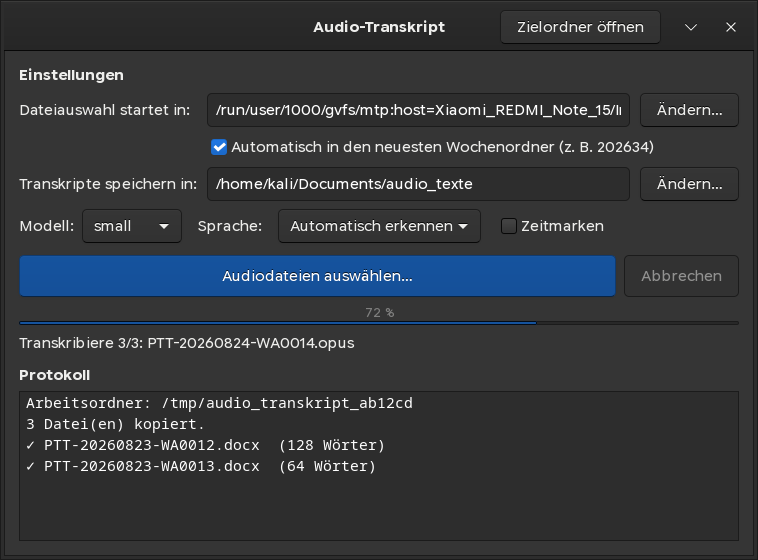
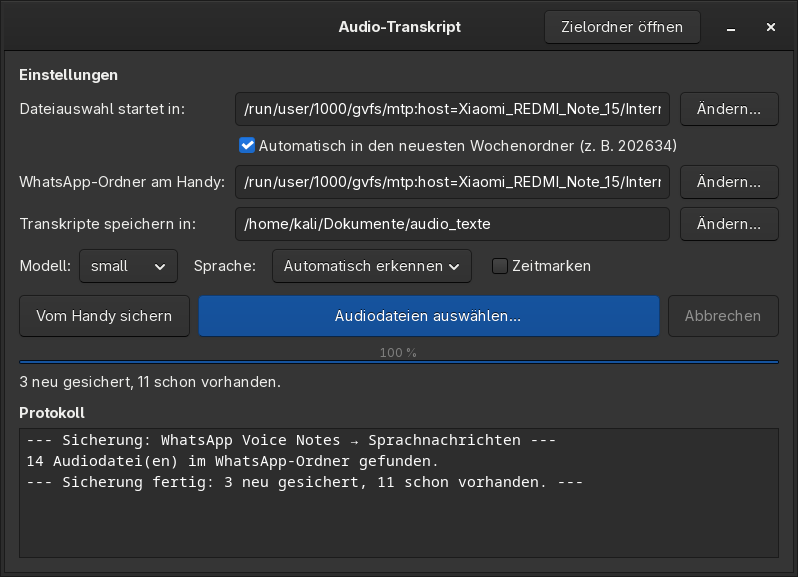
Knopf 'Vom Handy sichern': WhatsApp-Ordner in den Startordner kopieren
Neues Feld 'WhatsApp-Ordner am Handy' (dauerhaft gespeichert) und ein Knopf,
der alle Audiodateien daraus samt Wochenordnern flach in den Startordner
kopiert - bisher Handarbeit, damit WhatsApp sie nicht nach einer Woche löscht.

Bereits vorhandene Dateien werden übersprungen, unvollständig angekommene
erkannt und erneut geholt. Der Lauf zeigt Fortschritt und ist abbrechbar.
Quell- und Zielordner dürfen nicht ineinander liegen.

diff --git a/audio_transkript/gui.py b/audio_transkript/gui.py
@@ -11,7 +11,7 @@ from gi.repository import Gdk, Gio, GLib, Gtk  # noqa: E402
 
 from . import config  # noqa: E402
 from .audio import AUDIO_EXTENSIONS  # noqa: E402
-from .job import JobError, run_job, sweep_stale_workdirs  # noqa: E402
+from .job import JobError, run_copy_job, run_job, sweep_stale_workdirs  # noqa: E402
 from .transcriber import Transcriber  # noqa: E402
 
 APP_ID = "org.audiotranskript.AudioTranskript"
@@ -115,12 +115,17 @@ class Window(Gtk.ApplicationWindow):
         self.auto_newest.connect("toggled", self.on_auto_newest_toggled)
         grid.attach(self.auto_newest, 1, 1, 2, 1)
         self.settings_widgets.append(self.auto_newest)
+        self.whatsapp_entry = self._path_row(
+            grid, 2, "WhatsApp-Ordner am Handy:", self.cfg["whatsapp_dir"],
+            self.on_choose_whatsapp_dir,
+        )
+        self.whatsapp_entry.set_placeholder_text("noch nicht eingestellt")
         self.output_entry = self._path_row(
-            grid, 2, "Transkripte speichern in:", self.cfg["output_dir"], self.on_choose_output_dir
+            grid, 3, "Transkripte speichern in:", self.cfg["output_dir"], self.on_choose_output_dir
         )
 
         options = Gtk.Box(orientation=Gtk.Orientation.HORIZONTAL, spacing=8)
-        grid.attach(options, 0, 3, 3, 1)
+        grid.attach(options, 0, 4, 3, 1)
         options.pack_start(self._label("Modell:"), False, False, 0)
         self.model_box = Gtk.ComboBoxText()
         for name in config.MODELS:
@@ -149,6 +154,15 @@ class Window(Gtk.ApplicationWindow):
         box = Gtk.Box(orientation=Gtk.Orientation.VERTICAL, spacing=8)
         row = Gtk.Box(orientation=Gtk.Orientation.HORIZONTAL, spacing=8)
         box.pack_start(row, False, False, 0)
+
+        self.copy_button = Gtk.Button(label="Vom Handy sichern")
+        self.copy_button.set_size_request(-1, 42)
+        self.copy_button.set_tooltip_text(
+            "Kopiert alle Sprachnachrichten aus dem WhatsApp-Ordner des Handys in den "
+            "oben eingestellten Startordner.\nBereits vorhandene Dateien werden übersprungen."
+        )
+        self.copy_button.connect("clicked", self.on_copy_clicked)
+        row.pack_start(self.copy_button, False, False, 0)
 
         self.select_button = Gtk.Button(label="Audiodateien auswählen…")
         self.select_button.get_style_context().add_class("suggested-action")
@@ -188,6 +202,7 @@ class Window(Gtk.ApplicationWindow):
         codes = [code for code, _label in config.LANGUAGES]
         self.cfg = {
             "start_dir": self.start_entry.get_text(),
+            "whatsapp_dir": self.whatsapp_entry.get_text(),
             "output_dir": self.output_entry.get_text(),
             "model": config.MODELS[self.model_box.get_active()],
             "language": codes[self.language_box.get_active()],
@@ -233,6 +248,9 @@ class Window(Gtk.ApplicationWindow):
     def on_choose_start_dir(self, _button) -> None:
         self._choose_folder("Startordner für die Dateiauswahl", self.start_entry)
         self.refresh_start_tooltip()
+
+    def on_choose_whatsapp_dir(self, _button) -> None:
+        self._choose_folder("WhatsApp-Ordner am Handy", self.whatsapp_entry)
 
     def on_choose_output_dir(self, _button) -> None:
         self._choose_folder("Zielordner für die Transkripte", self.output_entry)
@@ -299,21 +317,86 @@ class Window(Gtk.ApplicationWindow):
         elif accepted and not skipped:
             self.append_log("Keine Dateien ausgewählt.")
 
-    def start(self, files: list[str]) -> None:
+    def on_copy_clicked(self, _button) -> None:
+        if self.worker and self.worker.is_alive():
+            return
+        source = self.whatsapp_entry.get_text().strip()
+        if not config.is_dir(source):
+            self.message(
+                Gtk.MessageType.INFO,
+                "Bitte zuerst den WhatsApp-Ordner am Handy einstellen.\n\n"
+                "Er liegt üblicherweise unter:\n"
+                "Android/media/com.whatsapp/WhatsApp/Media/WhatsApp Voice Notes\n\n"
+                "Handy anstecken, entsperren und „Dateiübertragung“ wählen.",
+            )
+            self.on_choose_whatsapp_dir(None)
+            source = self.whatsapp_entry.get_text().strip()
+            if not config.is_dir(source):
+                return
+        self.start_copy(source, self.start_entry.get_text())
+
+    def begin_run(self, status: str) -> None:
         self.cancel.clear()
         self.select_button.set_sensitive(False)
+        self.copy_button.set_sensitive(False)
         self.cancel_button.set_sensitive(True)
+        self.set_settings_sensitive(False)
         self.progress.set_fraction(0.0)
         self.progress.set_show_text(True)
         self.progress.set_text("0 %")
-        self.set_status(f"{len(files)} Datei(en) ausgewählt.")
+        self.set_status(status)
+
+    def end_run(self) -> None:
+        self.select_button.set_sensitive(True)
+        self.copy_button.set_sensitive(True)
+        self.cancel_button.set_sensitive(False)
+        self.set_settings_sensitive(True)
+
+    def start_copy(self, source: str, target: str) -> None:
+        self.begin_run("Sicherung wird vorbereitet…")
+        self.append_log(f"--- Sicherung: {source} → {target} ---")
+
+        def emit(kind: str, **payload) -> None:
+            GLib.idle_add(self.on_event, kind, payload)
+
+        def work() -> None:
+            try:
+                emit("copy_done", summary=run_copy_job(source, target, emit, self.cancel))
+            except JobError as exc:
+                emit("failed", message=str(exc))
+            except Exception as exc:  # unerwartet – trotzdem sichtbar machen
+                emit("failed", message=f"{type(exc).__name__}: {exc}")
+
+        self.worker = threading.Thread(target=work, daemon=True)
+        self.worker.start()
+
+    def finish_copy(self, summary: dict) -> None:
+        self.end_run()
+        copied, skipped, failed = summary["copied"], summary["skipped"], summary["failed"]
+        parts = [f"{len(copied)} neu gesichert"]
+        if skipped:
+            parts.append(f"{skipped} schon vorhanden")
+        if failed:
+            parts.append(f"{len(failed)} fehlgeschlagen")
+        if summary["cancelled"]:
+            parts.append("abgebrochen")
+        text = ", ".join(parts) + "."
+        self.set_status(text)
+        self.append_log(f"--- Sicherung fertig: {text} ---")
+        if failed:
+            details = "\n".join(f"• {name}: {reason}" for name, reason in failed[:6])
+            self.message(Gtk.MessageType.WARNING, f"{text}\n\n{details}")
+        else:
+            self.message(Gtk.MessageType.INFO, f"{text}\n\nZielordner:\n{summary['target']}")
+
+    def start(self, files: list[str]) -> None:
+        self.begin_run(f"{len(files)} Datei(en) ausgewählt.")
         self.append_log(f"--- Start: {len(files)} Datei(en) ---")
 
         cfg = dict(self.cfg)
         # Festhalten, welcher Ordner tatsaechlich benutzt wird – die Anzeige darf
         # sich waehrend des Laufs nicht mehr aendern, sonst meldet finish() falsch.
         self.job_output_dir = cfg["output_dir"]
-        self.set_settings_sensitive(False)
 
         def emit(kind: str, **payload) -> None:
             GLib.idle_add(self.on_event, kind, payload)
@@ -345,6 +428,8 @@ class Window(Gtk.ApplicationWindow):
             self.progress.set_text(f"{value * 100:.0f} %")
         elif kind == "done":
             self.finish(payload["summary"])
+        elif kind == "copy_done":
+            self.finish_copy(payload["summary"])
         elif kind == "failed":
             self.finish(None, payload["message"])
         return False
@@ -354,9 +439,7 @@ class Window(Gtk.ApplicationWindow):
             widget.set_sensitive(sensitive)
 
     def finish(self, summary: dict | None, error: str | None = None) -> None:
-        self.select_button.set_sensitive(True)
-        self.cancel_button.set_sensitive(False)
-        self.set_settings_sensitive(True)
+        self.end_run()
         if error:
             self.progress.set_fraction(0.0)
             self.progress.set_show_text(False)

diff --git a/audio_transkript/job.py b/audio_transkript/job.py
@@ -2,6 +2,7 @@
 
 import atexit
 import functools
+import os
 import shutil
 import tempfile
 import time
@@ -34,6 +35,74 @@ def sweep_stale_workdirs(max_age_hours: float = 12.0) -> int:
         except OSError:
             continue
     return removed
+
+
+def collect_audio_files(source: Path, cancel) -> list[Path]:
+    """Alle Audiodateien unterhalb von source – WhatsApp legt sie in Wochenordnern ab."""
+    endings = {ext.lower() for ext in audio.AUDIO_EXTENSIONS}
+    found: list[Path] = []
+    for root, dirs, names in os.walk(source, onerror=lambda _exc: None):
+        if cancel.is_set():
+            break
+        dirs.sort()
+        for name in sorted(names):
+            if Path(name).suffix.lower() in endings:
+                found.append(Path(root) / name)
+    return found
+
+
+def run_copy_job(source_dir: str, target_dir: str, emit, cancel) -> dict:
+    """Sichert Sprachnachrichten aus dem WhatsApp-Ordner in den Startordner."""
+    source = Path(source_dir).expanduser()
+    target = Path(target_dir).expanduser()
+
+    if not source.is_dir():
+        raise JobError(f"WhatsApp-Ordner nicht erreichbar:\n{source}\n\nHandy angesteckt und entsperrt?")
+    if source == target or target.is_relative_to(source):
+        raise JobError("Quell- und Zielordner dürfen nicht ineinander liegen.")
+    try:
+        target.mkdir(parents=True, exist_ok=True)
+    except OSError as exc:
+        raise JobError(f"Zielordner konnte nicht angelegt werden: {exc}") from exc
+
+    emit("status", text="Suche Sprachnachrichten am Handy…")
+    found = collect_audio_files(source, cancel)
+    if cancel.is_set():
+        return {"copied": [], "skipped": 0, "failed": [], "cancelled": True, "target": str(target)}
+    emit("log", text=f"{len(found)} Audiodatei(en) im WhatsApp-Ordner gefunden.")
+
+    copied: list[str] = []
+    failed: list[tuple[str, str]] = []
+    skipped = 0
+    total = max(1, len(found))
+
+    for index, item in enumerate(found, start=1):
+        if cancel.is_set():
+            return {"copied": copied, "skipped": skipped, "failed": failed,
+                    "cancelled": True, "target": str(target)}
+        emit("status", text=f"Sichere {index}/{len(found)}: {item.name}")
+        emit("progress", value=index / total * 100.0)
+        destination = target / item.name
+        try:
+            size = item.stat().st_size
+            if destination.exists():
+                if destination.stat().st_size == size:
+                    skipped += 1
+                    continue
+                emit("log", text=f"↻ {item.name} war unvollständig – wird erneut kopiert")
+            shutil.copyfile(item, destination)
+            written = destination.stat().st_size
+            if size and written != size:
+                destination.unlink(missing_ok=True)
+                raise OSError(f"nur {written} von {size} Bytes übertragen")
+            copied.append(item.name)
+        except OSError as exc:
+            failed.append((item.name, str(exc)))
+            emit("log", text=f"✗ {item.name}: {exc}")
+
+    emit("progress", value=100.0)
+    return {"copied": copied, "skipped": skipped, "failed": failed,
+            "cancelled": False, "target": str(target)}
 
 
 def run_job(files, cfg: dict, emit, cancel, transcriber: Transcriber | None = None) -> dict:

diff --git a/audio_transkript/config.py b/audio_transkript/config.py
@@ -45,10 +45,10 @@ def is_week_dir(name: str) -> bool:
     return 2000 <= int(name[:4]) <= 2999 and 1 <= int(name[4:]) <= 53
 
 
-def _is_dir(path: Path) -> bool:
+def is_dir(path) -> bool:
     """Path.is_dir() reicht vor Python 3.13 EACCES/ENOTCONN durch – etwa bei totem MTP-Mount."""
     try:
-        return path.is_dir()
+        return Path(path).expanduser().is_dir()
     except OSError:
         return False
 
@@ -57,7 +57,7 @@ def newest_week_dir(path: str) -> str:
     """Höchster Wochenordner unterhalb von path, sonst path selbst."""
     base = Path(existing_dir(path))
     try:
-        weeks = [d for d in base.iterdir() if _is_dir(d) and is_week_dir(d.name)]
+        weeks = [d for d in base.iterdir() if is_dir(d) and is_week_dir(d.name)]
     except OSError:
         return str(base)
     return str(max(weeks, key=lambda d: d.name)) if weeks else str(base)
@@ -66,7 +66,7 @@ def newest_week_dir(path: str) -> str:
 def existing_dir(path: str) -> str:
     """Nächster existierender Ordner (falls der gespeicherte Pfad z.B. abgesteckt wurde)."""
     candidate = Path(path).expanduser()
-    while not _is_dir(candidate) and candidate != candidate.parent:
+    while not is_dir(candidate) and candidate != candidate.parent:
         candidate = candidate.parent
     return str(candidate)
 
@@ -100,6 +100,7 @@ def defaults() -> dict:
     home = Path.home()
     return {
         "start_dir": str(home),
+        "whatsapp_dir": "",
         "output_dir": str(documents_dir() / "audio_texte"),
         "model": "small",
         "language": "auto",
@@ -116,6 +117,10 @@ def _clean(raw: dict) -> dict:
         value = raw.get(key)
         if isinstance(value, str) and value.strip():
             cfg[key] = str(Path(value).expanduser())
+    # Darf leer bleiben: solange nicht eingestellt, fragt der Knopf beim ersten Klick.
+    value = raw.get("whatsapp_dir")
+    if isinstance(value, str):
+        cfg["whatsapp_dir"] = str(Path(value).expanduser()) if value.strip() else ""
     if raw.get("model") in MODELS:
         cfg["model"] = raw["model"]
     if raw.get("language") in {code for code, _ in LANGUAGES}:

diff --git a/README.md b/README.md
@@ -46,17 +46,41 @@ Nötige vorhanden ist, hilft `./setup.sh --no-system-deps`.
 
 Start über das Symbol auf dem Schreibtisch, das Anwendungsmenü oder `./run.sh`.
 
-1. **Dateiauswahl startet in** — Ordner, in dem der Dateidialog öffnet. Bleibt dauerhaft gespeichert.
+1. **Dateiauswahl startet in** — Ordner, in dem der Dateidialog öffnet. Bleibt dauerhaft
+   gespeichert. Das ist zugleich der Zielordner von „Vom Handy sichern".
 2. **Automatisch in den neuesten Wochenordner** — WhatsApp legt Sprachnachrichten in Wochenordnern
    ab (`202634` = KW 34/2026). Ist die Option aktiv, springt der Dialog automatisch in den
    höchsten Wochenordner. Für einen festen Ordner (z. B. eine eigene Kopie) einfach abschalten.
-3. **Transkripte speichern in** — Zielordner, standardmäßig `audio_texte` im
+3. **WhatsApp-Ordner am Handy** — Quelle für „Vom Handy sichern", siehe unten.
+4. **Transkripte speichern in** — Zielordner, standardmäßig `audio_texte` im
    Dokumentenordner des Systems (auf deutschen Systemen also `~/Dokumente/audio_texte`).
-4. **Modell / Sprache / Zeitmarken** — siehe unten.
-5. **Audiodateien auswählen…** — Mehrfachauswahl möglich; die Transkription startet sofort.
+5. **Modell / Sprache / Zeitmarken** — siehe unten.
+6. **Audiodateien auswählen…** — Mehrfachauswahl möglich; die Transkription startet sofort.
 
 Ausgewählte Dateien werden zuerst nach `/tmp/audio_transkript_*` kopiert und von dort verarbeitet.
 Das Handy kann also direkt nach dem Kopieren abgesteckt werden. Der tmp-Ordner wird danach gelöscht.
+
+### Vom Handy sichern
+
+WhatsApp löscht Sprachnachrichten nach etwa einer Woche aus seinem Medienordner. Der Knopf
+**„Vom Handy sichern"** kopiert sie vorher in Sicherheit: er durchsucht den eingestellten
+WhatsApp-Ordner samt aller Wochenordner (`202634`, `202635`, …) und legt jede Audiodatei
+flach im **Startordner** ab.
+
+- Bereits vorhandene Dateien werden übersprungen — der Knopf lässt sich also täglich drücken,
+  ohne Dubletten zu erzeugen.
+- Eine Datei, die beim letzten Mal unvollständig ankam, wird erkannt und erneut geholt.
+- Der Lauf zeigt Fortschritt und lässt sich mit „Abbrechen" stoppen.
+
+Quelle ist üblicherweise:
+
+```
+Android/media/com.whatsapp/WhatsApp/Media/WhatsApp Voice Notes
+```
+
+Liegt der Startordner ebenfalls auf dem Handy, läuft die Kopie technisch bedingt über den PC —
+MTP kann nicht auf dem Gerät selbst kopieren. Jede Datei wandert also zweimal über das Kabel.
+Ein Startordner auf dem PC ist entsprechend schneller.
 
 ### Benennung der Transkripte
 
